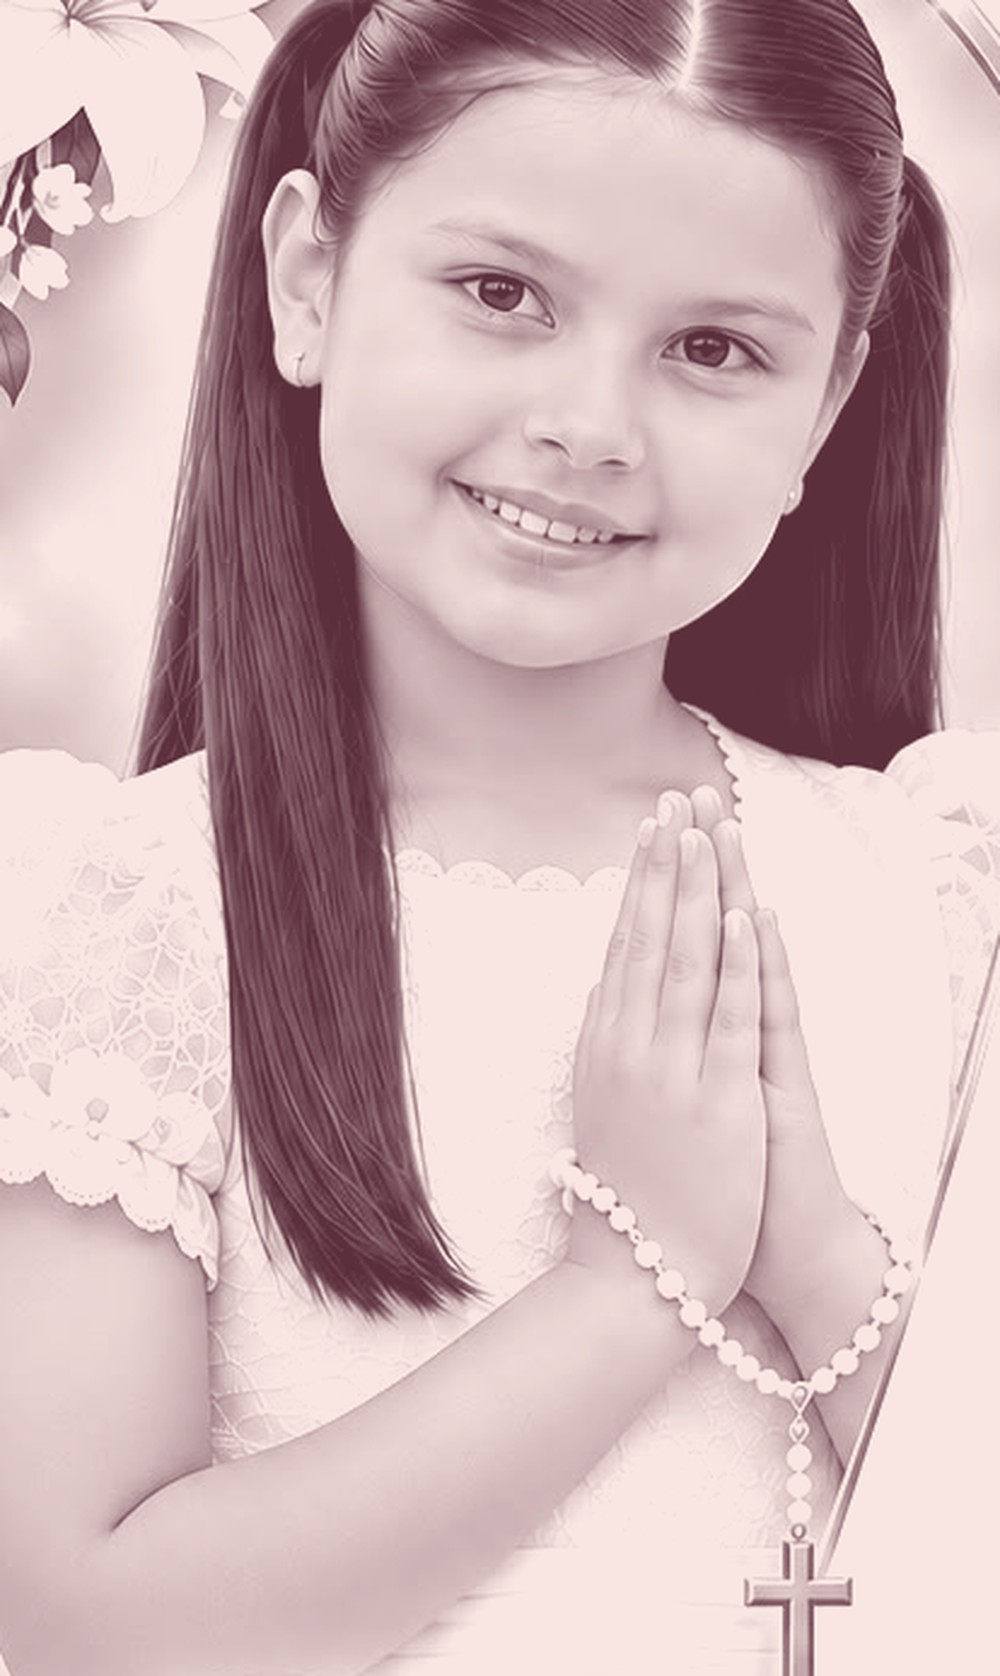
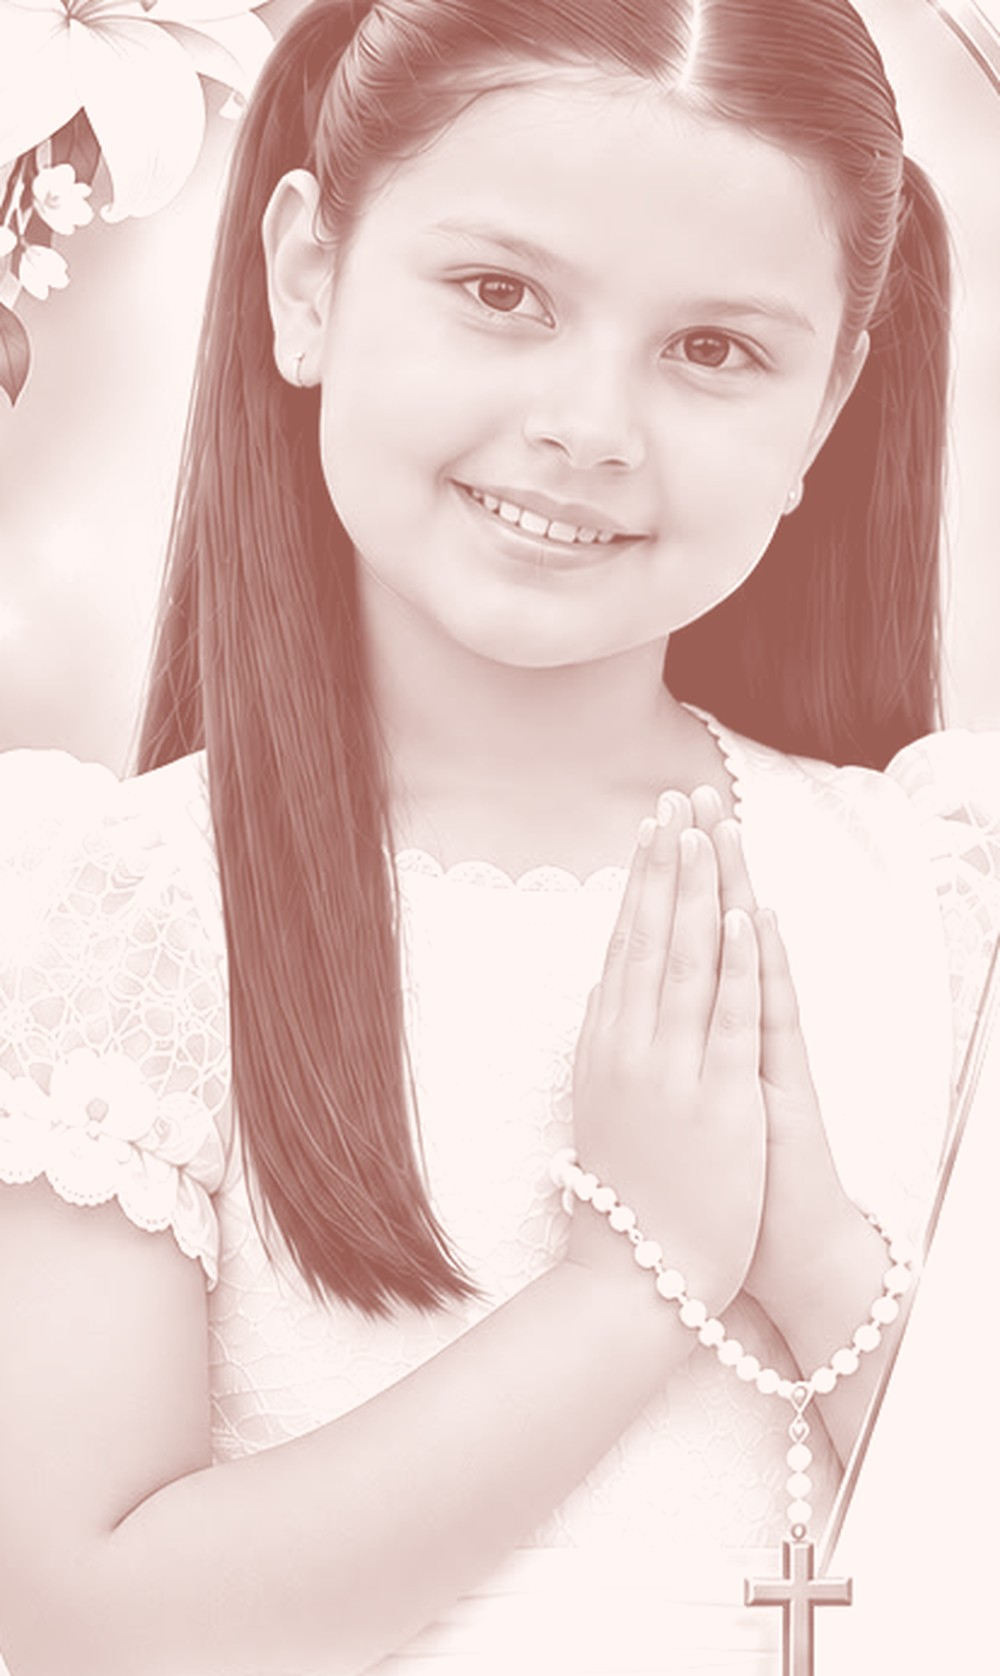
Salomé: rosado claro luminoso estilo tarjeta impresa
Claude-Session: https://claude.ai/code/session_01JtCYz5RVQ7QZ5WLgWgtnaq

diff --git a/salome.html b/salome.html
@@ -13,14 +13,14 @@
 <meta property="og:image:width" content="1200">
 <meta property="og:image:height" content="630">
 <meta name="twitter:card" content="summary_large_image">
-<meta name="theme-color" content="#432737">
+<meta name="theme-color" content="#FBEDEA">
 <link rel="preconnect" href="https://fonts.googleapis.com">
 <link href="https://fonts.googleapis.com/css2?family=Fraunces:ital,opsz,wght@0,9..144,300;0,9..144,600;1,9..144,300;1,9..144,500&family=Cormorant+Garamond:ital,wght@1,400;1,500&family=Great+Vibes&family=Karla:wght@400;500;700&display=swap" rel="stylesheet">
 <style>
   :root{
     --oro:#C9A24B; --oro-claro:#E6CA85; --oro-osc:#A8822F;
-    --cafe:#6B3A4C; --cafe-osc:#2B1721; --tinta:#432737;
-    --crema:#FCF3F2; --beige:#F8E4E2; --arena:#E6C3C0; --lirio:#B58A93;
+    --cafe:#7A4E3B; --cafe-osc:#FFF1ED; --tinta:#5C3A2E;
+    --crema:#FFF9F7; --beige:#FBEDEA; --arena:#F0D4D0; --lirio:#C79A93;
     --display:'Fraunces',Georgia,serif; --script:'Great Vibes',cursive;
     --italic:'Cormorant Garamond',Georgia,serif; --body:'Karla',system-ui,sans-serif;
   }
@@ -35,22 +35,22 @@
   /* ---------- Hero ---------- */
   .hero{position:relative;min-height:100svh;display:flex;flex-direction:column;justify-content:flex-end;align-items:center;text-align:center;
     padding:0 22px 40px;color:var(--crema);background:var(--cafe-osc);overflow:hidden}
-  .hero .blur{position:absolute;inset:-40px;background:url(assets/familia-salome.jpg) center/cover no-repeat;filter:blur(24px) brightness(.4);opacity:.9}
-  .hero .veil{position:absolute;inset:0;background:linear-gradient(180deg,rgba(43,23,33,0) 34%,rgba(43,23,33,.9) 56%,#2B1721 64%)}
+  .hero .blur{position:absolute;inset:-40px;background:url(assets/familia-salome.jpg) center/cover no-repeat;filter:blur(26px) brightness(1.04) saturate(.85);opacity:.4}
+  .hero .veil{position:absolute;inset:0;background:linear-gradient(180deg,rgba(255,241,237,0) 34%,rgba(255,241,237,.92) 56%,#FFF1ED 64%)}
   .hero .foto{position:relative;width:100%;margin:9vh 0 0;animation:paint 2.2s cubic-bezier(.2,.7,.2,1) both}
   .hero .foto img{width:100%;display:block}
-  .hero .foto::after{content:"";position:absolute;left:0;right:0;bottom:-2px;height:58%;background:linear-gradient(180deg,rgba(43,23,33,0) 0%,rgba(43,23,33,.85) 60%,#2B1721 100%)}
+  .hero .foto::after{content:"";position:absolute;left:0;right:0;bottom:-2px;height:58%;background:linear-gradient(180deg,rgba(255,241,237,0) 0%,rgba(255,241,237,.85) 60%,#FFF1ED 100%)}
   @keyframes paint{from{opacity:0;transform:scale(1.04)}to{opacity:1;transform:none}}
   .hero .txt{position:relative;margin-top:-12%}
-  .hero .k{color:var(--oro-claro)}
-  .pre{font-family:var(--display);font-weight:600;font-size:clamp(1.5rem,6.4vw,2rem);line-height:1.05;color:var(--crema);margin-top:14px}
-  .name{font-family:var(--script);font-weight:400;font-size:clamp(4.2rem,21vw,6.4rem);line-height:1;color:var(--oro-claro);
-    text-shadow:0 2px 26px rgba(0,0,0,.4);margin:2px 0 0}
+  .hero .k{color:var(--oro-osc)}
+  .pre{font-family:var(--display);font-weight:600;font-size:clamp(1.5rem,6.4vw,2rem);line-height:1.05;color:var(--cafe);margin-top:14px}
+  .name{font-family:var(--script);font-weight:400;font-size:clamp(4.2rem,21vw,6.4rem);line-height:1;color:var(--oro);
+    text-shadow:0 1px 0 #fff,0 3px 20px rgba(201,162,75,.4);margin:2px 0 0}
   .ribbon{display:inline-block;margin-top:6px;padding:7px 22px;border-top:1px solid var(--oro);border-bottom:1px solid var(--oro);
-    font-family:var(--display);font-weight:600;font-size:1.05rem;letter-spacing:.12em;text-transform:uppercase;color:var(--crema)}
-  .date{font-family:var(--italic);font-style:italic;font-weight:500;font-size:1.3rem;color:var(--crema);margin-top:20px}
-  .cross{width:30px;height:30px;margin:22px auto 0;color:var(--oro-claro)}
-  .scrollhint{margin-top:18px;font-size:.7rem;letter-spacing:.2em;text-transform:uppercase;color:var(--oro-claro);opacity:.85;animation:bob 2.2s ease-in-out infinite}
+    font-family:var(--display);font-weight:600;font-size:1.05rem;letter-spacing:.12em;text-transform:uppercase;color:var(--cafe)}
+  .date{font-family:var(--italic);font-style:italic;font-weight:500;font-size:1.3rem;color:var(--cafe);margin-top:20px}
+  .cross{width:30px;height:30px;margin:22px auto 0;color:var(--oro)}
+  .scrollhint{margin-top:18px;font-size:.7rem;letter-spacing:.2em;text-transform:uppercase;color:var(--oro-osc);opacity:.95;animation:bob 2.2s ease-in-out infinite}
   @keyframes bob{0%,100%{transform:translateY(0)}50%{transform:translateY(6px)}}
   @media (min-width:700px){.hero .foto{max-width:620px;margin-top:5vh}.hero .txt{margin-top:-70px}}
 
@@ -63,7 +63,7 @@
   .lugar{padding:44px 0 6px}
   .lugar h2{font-family:var(--display);font-weight:600;font-size:2rem;line-height:1.05;color:var(--cafe);margin:8px 0 4px}
   .lugar .t{font-family:var(--italic);font-style:italic;font-size:1.3rem;color:var(--oro-osc)}
-  .lugar p{margin-top:10px;color:#6E4A58;font-size:.98rem}
+  .lugar p{margin-top:10px;color:#7A5243;font-size:.98rem}
   .reveal{opacity:0;transform:translateY(16px);transition:opacity .7s,transform .7s}
   .on .reveal{opacity:1;transform:none}
 
@@ -74,12 +74,12 @@
   .btn svg{width:18px;height:18px;flex:none}
 
   /* ---------- Avisos ---------- */
-  .splash{margin:26px 22px 0;border-radius:22px;padding:26px 22px;background:var(--cafe);color:var(--beige);position:relative;overflow:hidden;border:1px solid var(--oro)}
-  .splash::after{content:"";position:absolute;inset:auto -30% -55% -30%;height:120px;border-radius:50%;background:rgba(201,162,75,.2)}
-  .splash .k{color:var(--oro-claro)}
-  .splash h3{font-family:var(--display);font-weight:600;font-size:1.65rem;line-height:1.05;margin:6px 0 8px;color:var(--oro-claro)}
+  .splash{margin:26px 22px 0;border-radius:22px;padding:26px 22px;background:#F6D3CD;color:#5C3A2E;position:relative;overflow:hidden;border:1px solid #ECBFB8}
+  .splash::after{content:"";position:absolute;inset:auto -30% -55% -30%;height:120px;border-radius:50%;background:rgba(255,255,255,.45)}
+  .splash .k{color:var(--oro-osc)}
+  .splash h3{font-family:var(--display);font-weight:600;font-size:1.65rem;line-height:1.05;margin:6px 0 8px;color:#8A4A3F}
   .splash p{font-size:.95rem;opacity:.95}
-  .splash .icon{position:absolute;right:18px;top:18px;width:46px;color:var(--oro-claro)}
+  .splash .icon{position:absolute;right:18px;top:18px;width:46px;color:var(--oro)}
   .splash.alt{background:var(--beige);color:var(--cafe);border:1px solid var(--arena)}
   .splash.alt .k{color:var(--oro-osc)} .splash.alt h3{color:var(--cafe)} .splash.alt .icon{color:var(--oro)}
 
@@ -87,7 +87,7 @@
   .rsvp{padding:60px 22px 30px;text-align:center}
   .rsvp h2{font-family:var(--display);font-weight:300;font-size:1.9rem;color:var(--cafe)}
   .rsvp h2 b{font-weight:600;font-style:italic}
-  .rsvp>p{margin:8px auto 0;max-width:34ch;color:#6E4A58}
+  .rsvp>p{margin:8px auto 0;max-width:34ch;color:#7A5243}
   .count{display:flex;justify-content:center;gap:18px;margin:26px 0 8px}
   .count div{min-width:58px}
   .count b{display:block;font-family:var(--display);font-weight:600;font-size:2rem;color:var(--cafe);line-height:1}
@@ -111,7 +111,7 @@
   .ok{text-align:center;padding:10px 0}
   .ok h3{font-family:var(--display);font-weight:600;color:var(--cafe);font-size:1.6rem}
   .ok p{margin-top:6px}
-  .parents{margin-top:54px;padding-top:24px;border-top:1px solid var(--arena);font-family:var(--italic);font-style:italic;color:#9A6E7C;font-size:1.1rem}
+  .parents{margin-top:54px;padding-top:24px;border-top:1px solid var(--arena);font-family:var(--italic);font-style:italic;color:#A07A6B;font-size:1.1rem}
   .parents b{display:block;font-style:normal;font-family:var(--display);font-weight:600;color:var(--cafe);margin-top:4px}
   footer{padding:24px;text-align:center;font-size:.7rem;letter-spacing:.18em;text-transform:uppercase;color:var(--lirio)}
 
@@ -141,7 +141,7 @@
     <div class="name">Salomé</div>
     <div class="ribbon">Romero Peralta</div>
     <div class="date" id="fecha"></div>
-    <svg class="cross" viewBox="0 0 24 24" fill="none" stroke="currentColor" stroke-width="1.4" stroke-linecap="round"><path d="M12 2v20M5 8h14"/><circle cx="12" cy="8" r="3.2" fill="#2B1721"/></svg>
+    <svg class="cross" viewBox="0 0 24 24" fill="none" stroke="currentColor" stroke-width="1.4" stroke-linecap="round"><path d="M12 2v20M5 8h14"/><circle cx="12" cy="8" r="3.2" fill="#FFF1ED"/></svg>
     <div class="scrollhint">Desliza para ver los detalles ↓</div>
   </div>
 </header>

diff --git a/salome-lista.html b/salome-lista.html
@@ -7,12 +7,12 @@
 <title>Confirmaciones · Salomé</title>
 <link href="https://fonts.googleapis.com/css2?family=Fraunces:ital,wght@0,300;0,600;1,300&family=Great+Vibes&family=Karla:wght@400;500;700&display=swap" rel="stylesheet">
 <style>
-  :root{--oro:#C9A24B;--oro-claro:#E6CA85;--oro-osc:#A8822F;--cafe:#6B3A4C;--crema:#FCF3F2;--beige:#F8E4E2;--arena:#E6C3C0;--tinta:#432737;--rojo:#8a3b2a;--verde:#5E7A4C}
+  :root{--oro:#C9A24B;--oro-claro:#E6CA85;--oro-osc:#A8822F;--cafe:#7A4E3B;--crema:#FFF9F7;--beige:#FBEDEA;--arena:#F0D4D0;--tinta:#5C3A2E;--rojo:#8a3b2a;--verde:#5E7A4C}
   *{box-sizing:border-box;margin:0;padding:0}
   body{font-family:Karla,system-ui,sans-serif;background:var(--crema);color:var(--tinta);line-height:1.45}
   .wrap{width:min(100%,560px);margin:0 auto;padding:20px 16px 80px}
   h1{font-family:'Great Vibes',cursive;font-weight:400;color:var(--oro-osc);font-size:3rem;line-height:1}
-  .sub{font-family:Fraunces,serif;font-style:italic;font-weight:300;color:#9A6E7C;margin-top:2px}
+  .sub{font-family:Fraunces,serif;font-style:italic;font-weight:300;color:#A07A6B;margin-top:2px}
   .k{font-size:.68rem;letter-spacing:.18em;text-transform:uppercase;color:var(--oro-osc);font-weight:700}
   input,textarea{width:100%;padding:11px 13px;border:1px solid var(--arena);border-radius:12px;background:#fff;font:inherit;font-size:1rem;color:var(--tinta)}
   .btn{display:inline-flex;align-items:center;justify-content:center;gap:8px;padding:11px 16px;border-radius:999px;border:1px solid var(--cafe);background:var(--cafe);color:var(--crema);font:inherit;font-weight:700;font-size:.88rem;cursor:pointer;text-decoration:none;white-space:nowrap}
@@ -35,13 +35,13 @@
   .name{font-family:Fraunces,serif;font-weight:600;font-size:1.1rem;color:var(--cafe);line-height:1.15}
   .pill{font-size:.72rem;font-weight:700;padding:4px 10px;border-radius:999px;background:var(--oro-claro);color:var(--cafe);white-space:nowrap}
   .pill.no{background:var(--arena)}
-  .meta{font-size:.84rem;color:#9A6E7C;margin-top:5px}
+  .meta{font-size:.84rem;color:#A07A6B;margin-top:5px}
   .meta a{color:var(--cafe);font-weight:700;text-decoration:none}
   .quote-msg{font-style:italic;border-left:3px solid var(--oro);padding-left:10px;margin-top:8px}
   .acts{margin-top:10px;display:flex;gap:14px;justify-content:flex-end;align-items:center;flex-wrap:wrap}
   .lnk{background:transparent;border:0;color:var(--cafe);font:inherit;font-size:.8rem;font-weight:700;cursor:pointer;text-decoration:underline}
   .lnk.del{color:var(--rojo);font-weight:400} .lnk.gold{color:var(--oro-osc)}
-  .empty{text-align:center;color:#9A6E7C;padding:36px 0;font-family:Fraunces,serif;font-style:italic}
+  .empty{text-align:center;color:#A07A6B;padding:36px 0;font-family:Fraunces,serif;font-style:italic}
   .seg{display:grid;grid-template-columns:1fr 1fr;gap:8px;margin-top:4px}
   .grid2{display:grid;grid-template-columns:1fr 1fr;gap:8px;margin-top:8px}
   .hide{display:none}
@@ -169,13 +169,13 @@ $("pdf").onclick = () => {
   const si = conf.filter(d=>d.asiste), no = conf.filter(d=>!d.asiste);
   const ad = si.reduce((a,d)=>a+ +d.adultos,0), ni = si.reduce((a,d)=>a+ +d.ninos,0);
   const { jsPDF } = window.jspdf; const doc = new jsPDF({unit:"mm", format:"a4"});
-  doc.setFillColor(107,58,76); doc.rect(0,0,210,30,"F");
+  doc.setFillColor(122,78,59); doc.rect(0,0,210,30,"F");
   doc.setTextColor(230,202,133); doc.setFont("helvetica","bold"); doc.setFontSize(16); doc.text("Primera Comunión · Salomé Romero Peralta", 14, 13);
   doc.setTextColor(251,246,236); doc.setFont("helvetica","normal"); doc.setFontSize(10); doc.text("Sábado 5 de diciembre de 2026 · 1:30 p. m. · Finca Jacaranda, Llanos del Combeima", 14, 20);
-  doc.setTextColor(107,58,76); doc.setFont("helvetica","bold"); doc.setFontSize(14); doc.text("Lista de confirmados", 14, 40);
-  doc.setFont("helvetica","normal"); doc.setFontSize(10); doc.setTextColor(154,106,118);
+  doc.setTextColor(122,78,59); doc.setFont("helvetica","bold"); doc.setFontSize(14); doc.text("Lista de confirmados", 14, 40);
+  doc.setFont("helvetica","normal"); doc.setFontSize(10); doc.setTextColor(160,122,107);
   doc.text(`${si.length} respuestas · ${ad} adultos · ${ni} niños · ${ad+ni} personas · ${no.length} no asisten`, 14, 46);
-  const estilo = { headStyles:{fillColor:[107,58,76], textColor:[230,202,133]}, alternateRowStyles:{fillColor:[248,228,226]}, styles:{font:"helvetica", fontSize:8.5, cellPadding:2.2}, margin:{left:14,right:14} };
+  const estilo = { headStyles:{fillColor:[122,78,59], textColor:[230,202,133]}, alternateRowStyles:{fillColor:[251,237,234]}, styles:{font:"helvetica", fontSize:8.5, cellPadding:2.2}, margin:{left:14,right:14} };
   doc.autoTable({ ...estilo, startY:52, head:[["#","Nombre","Celular","Adultos","Niños","Mensaje","Fecha"]],
     body: si.map((d,k)=>[k+1, d.nombre, d.telefono||"", d.adultos, d.ninos, d.mensaje||"", fecha(d.creado_en)]),
     columnStyles:{0:{cellWidth:8},3:{halign:"center",cellWidth:16},4:{halign:"center",cellWidth:14},6:{cellWidth:26}} });
